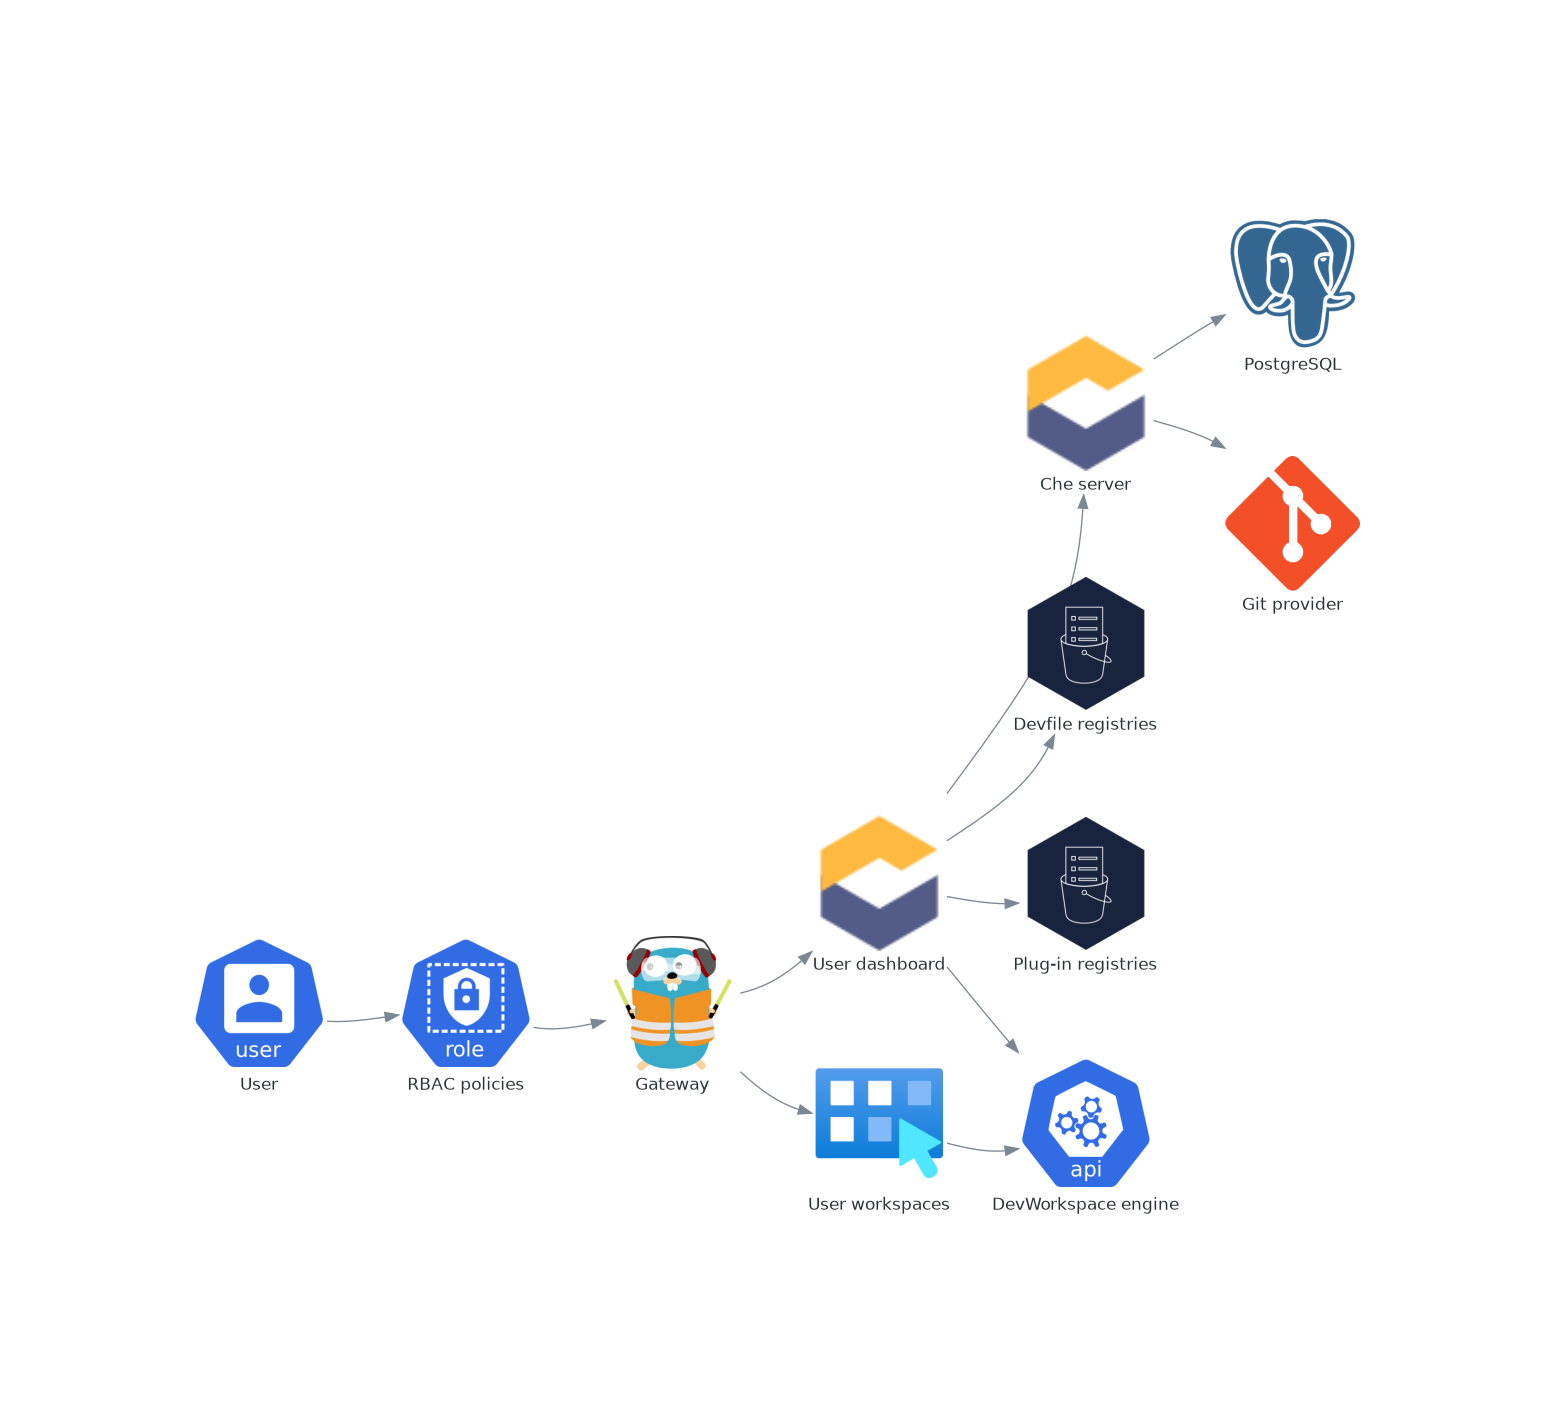
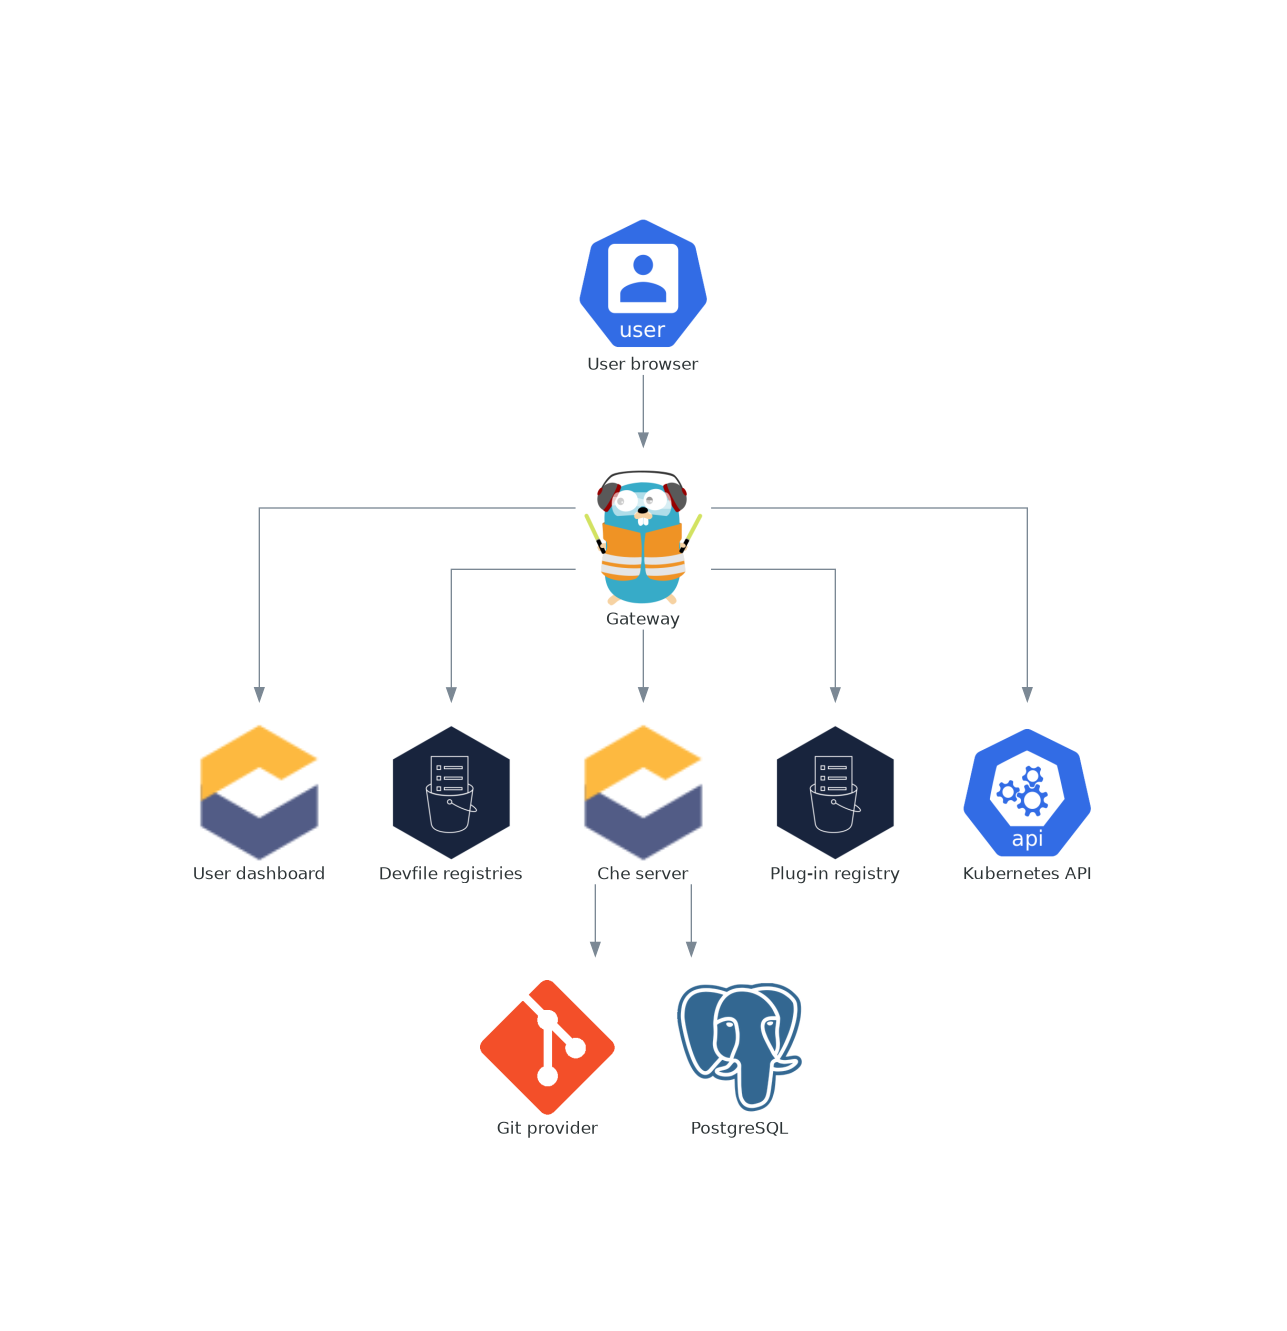
more review

diff --git a/tools/create_architecture_diagrams.py b/tools/create_architecture_diagrams.py
@@ -13,10 +13,11 @@ import diagrams
 from diagrams.azure.compute import Workspaces
 from diagrams.custom import Custom
 from diagrams.k8s.controlplane import APIServer
-from diagrams.k8s.rbac import User, Role
+from diagrams.k8s.rbac import User
 from diagrams.onprem.database import PostgreSQL
 from diagrams.onprem.network import Traefik
 from diagrams.onprem.vcs import Git
+from diagrams.outscale.compute import Compute
 from diagrams.outscale.storage import SimpleStorageService
 import os
 
@@ -30,7 +31,7 @@ def ArchitectureDiagrams(prod_short, project_context, orch_name):
         "bgcolor": "white",
         "layout": "dot",
         "overlap": "false",
-        "splines": "curved"
+        # "splines": "curved"
     }
     # Use neato for more complex diagrams
     graph_attr_neato = {
@@ -40,7 +41,7 @@ def ArchitectureDiagrams(prod_short, project_context, orch_name):
         "splines": "curved"
     }
 
-    filename = file_path + 'architecture-with-che-server-engine'
+    filename = file_path + 'architecture-with-che-server-operator'
     with Diagram(filename=filename,
                  show=False,
                  direction="TB",
@@ -49,7 +50,7 @@ def ArchitectureDiagrams(prod_short, project_context, orch_name):
                  ):
         controller = Custom(prod_short + ' server', prod_icon)
         kubernetes = APIServer(orch_name + ' API')
-        workspace = Workspaces('User workspaces')
+        workspace = Compute('User workspaces')
         controller >> kubernetes >> workspace
 
     filename = file_path + 'interacting-with-devworkspace'
@@ -61,69 +62,66 @@ def ArchitectureDiagrams(prod_short, project_context, orch_name):
                  ):
         che_server_components = Custom(
             prod_short + ' server components', prod_icon)
-        devworkspace_engine = APIServer('DevWorkspace')
-        workspace = Workspaces('User workspaces')
-        che_server_components >> devworkspace_engine >> workspace
+        devworkspace_operator = APIServer('DevWorkspace')
+        workspace = Compute('User workspaces')
+        che_server_components >> devworkspace_operator >> workspace
 
     filename = file_path + 'deployments-interacting-with-devworkspace'
     with Diagram(filename=filename,
                  show=False,
-                 direction="LR",
+                 direction="TB",
                  outformat="png",
                  graph_attr=graph_attr):
-        user = User('User')
-        role = Role('RBAC policies')
-        che_gateway = Traefik('Gateway')
         che_dashboard = Custom('User dashboard', icon_path=prod_icon)
-        che_host = Custom(prod_short + ' server', icon_path=prod_icon)
-        postgres = PostgreSQL('PostgreSQL')
-        git = Git('Git provider')
+        che_gateway = Traefik('Gateway')
         devfile_registries = SimpleStorageService('Devfile registries')
-        plugin_registries = SimpleStorageService(
-            'Plug-in registries')
-        devworkspace_engine = APIServer('DevWorkspace engine')
-        user_workspace = Workspaces('User workspaces')
-        user >> role >> che_gateway >> [che_dashboard, user_workspace]
-        che_dashboard >> [devfile_registries, che_host,
-                          plugin_registries, devworkspace_engine]
+        che_host = Custom(prod_short + ' server', icon_path=prod_icon)
+        git = Git('Git provider')
+        postgres = PostgreSQL('PostgreSQL')
+        plugin_registry = SimpleStorageService('Plug-in registry')
+        kubernetes_api = APIServer(orch_name + ' API')
+        user = User('User browser')
+        user >> che_gateway
+        che_gateway >> [che_dashboard, devfile_registries, che_host,
+                        plugin_registry, kubernetes_api]
         che_host >> [postgres, git]
-        user_workspace >> devworkspace_engine
 
     filename = file_path + 'gateway-interactions'
     with Diagram(filename=filename,
                  show=False,
-                 direction="LR",
+                 direction="TB",
                  outformat="png",
                  graph_attr=graph_attr):
         user = User('User')
-        role = Role('RBAC policies')
+        che_dashboard = Custom('User dashboard', icon_path=prod_icon)
+        devfile_registries = SimpleStorageService('Devfile registry')
+        plugin_registry = SimpleStorageService('Plug-in registry')
         che_gateway = Traefik('Gateway')
-        che_services = Custom(
-            prod_short + ' services', icon_path=prod_icon)
-        user_workspace = Workspaces('User workspaces')
-        user >> role >> che_gateway >> [che_services, user_workspace]
+        che_host = Custom(prod_short + ' server', icon_path=prod_icon)
+        user_workspace = Compute('User workspaces')
+        user >> che_gateway >> [
+            che_dashboard, che_host, devfile_registries, plugin_registry, user_workspace]
 
-    filename = file_path + 'user-dashboard-interactions'
+    filename = file_path + 'dashboard-interactions'
     with Diagram(filename=filename,
                  show=False,
-                 direction="LR",
+                 direction="TB",
                  outformat="png",
                  graph_attr=graph_attr):
         che_dashboard = Custom('User dashboard', icon_path=prod_icon)
-        che_host = Custom(prod_short + ' server', icon_path=prod_icon)
-        git = Git('Git repositories')
         devfile_registry = SimpleStorageService('Devfile registries')
-        plugin_registry = SimpleStorageService('Plug-in registries')
-        crd_workspace = APIServer('DevWorkspace engine')
+        che_host = Custom(prod_short + ' server', icon_path=prod_icon)
+        plugin_registry = SimpleStorageService('Plug-in registry')
+        crd_workspace = APIServer(orch_name + ' API')
         che_dashboard >> che_host,
         che_dashboard >> [
-            devfile_registry, git, plugin_registry]
+            devfile_registry, plugin_registry]
         che_dashboard >> crd_workspace
 
     filename = file_path + 'server-interactions'
     with Diagram(filename=filename,
                  show=False,
-                 direction="LR",
+                 direction="TB",
                  outformat="png",
                  graph_attr=graph_attr):
         che_host = Custom(prod_short + ' server', icon_path=prod_icon)
@@ -139,18 +137,17 @@ def ArchitectureDiagrams(prod_short, project_context, orch_name):
     filename = file_path + 'postgresql-interactions'
     with Diagram(filename=filename,
                  show=False,
-                 direction="LR",
+                 direction="TB",
                  outformat="png",
                  graph_attr=graph_attr):
         che_host = Custom(prod_short + ' server', icon_path=prod_icon)
         postgres = PostgreSQL('PostgreSQL')
-        che_host >> Edge(
-            label='persists user configurations') >> postgres
+        che_host >> postgres
 
     filename = file_path + 'devfile-registry-interactions'
     with Diagram(filename=filename,
                  show=False,
-                 direction="LR",
+                 direction="TB",
                  outformat="png",
                  graph_attr=graph_attr):
         che_dashboard = Custom('User dashboard', icon_path=prod_icon)
@@ -160,24 +157,32 @@ def ArchitectureDiagrams(prod_short, project_context, orch_name):
     filename = file_path + 'plugin-registry-interactions'
     with Diagram(filename=filename,
                  show=False,
-                 direction="LR",
+                 direction="TB",
                  outformat="png",
                  graph_attr=graph_attr):
         che_dashboard = Custom('User dashboard', icon_path=prod_icon)
-        plugin_registry = SimpleStorageService('Plug-in registries')
+        plugin_registry = SimpleStorageService('Plug-in registry')
         che_dashboard >> plugin_registry
 
     filename = file_path + 'user-workspaces-interactions'
     with Diagram(filename=filename,
                  show=False,
-                 direction="LR",
+                 direction="TB",
                  outformat="png",
                  #  edge_attr={"constraint": "false"},
                  graph_attr=graph_attr):
-        devworkspace_engine = APIServer('DevWorkspace engine')
-        workspace = Workspaces('User workspaces')
-        devworkspace_engine << Edge(
-        ) >> workspace
+        che_gateway = Traefik('Gateway')
+        # devworkspace_operator = APIServer('DevWorkspace operator')
+        git = Git('Git provider')
+        container_registries = SimpleStorageService('Container registries')
+        artifact_management = SimpleStorageService('Dependency provider')
+
+        user = User('User')
+        user_workspace = Compute('User workspaces')
+        # user_ide = Workspaces('User IDE')
+        user >> che_gateway >> user_workspace
+        # devworkspace_operator >> user_workspace
+        user_workspace >> [git, container_registries, artifact_management]
 
 
 ArchitectureDiagrams(project_context='che',
